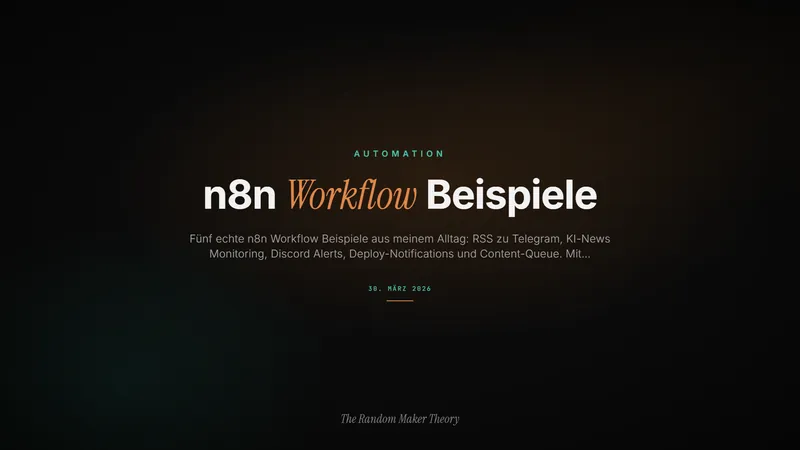
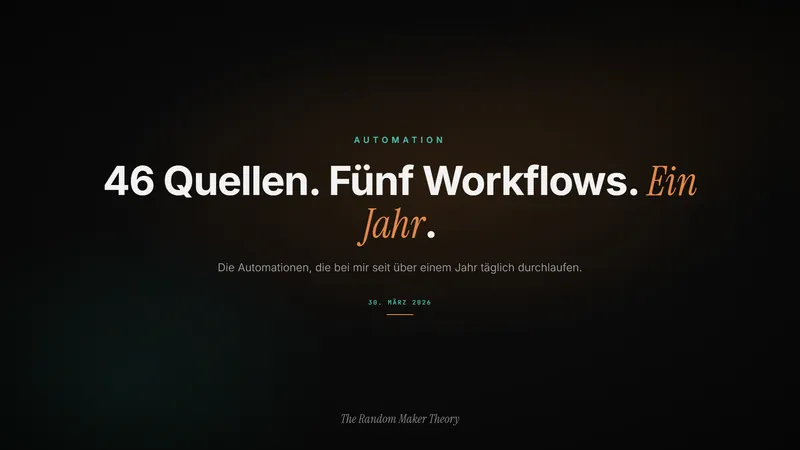
content+design: Rueckblick-Artikel Anthropic 2026 + Hero-Cards tragen jetzt den Hook
Zwei Sachen, die zusammengehoeren.

1) Neuer Artikel: "Anthropic 2026 - Wie ein Nein zum Pentagon fast eine
Billion wert wurde". Destilliert aus 57 KI-News-Drafts (63.555 Woerter) zu
einer Chronik: Pentagon-Klage im Maerz, 40 Mrd von Google im April, 965 Mrd
und IPO-Antrag im Juni, drei Tage spaeter schaltet die US-Regierung Fable 5
weltweit ab, im Juli kauft Kalifornien Claude fuer alle Behoerden.

2) Hero-Cards zeigen nicht mehr den Titel. Ein Bild, das denselben Text traegt
wie die Ueberschrift direkt darunter, ist kein Bild - es ist ein Platzhalter.
Die 16 Karten tragen jetzt den Kern-Claim aus dem jeweiligen TL;DR:
"4.200 Fotos. 8 Minuten. 0 Euro." statt "AfterShoot Alternative".
Bleibt auch als 400px-Thumbnail lesbar, was bei ganzen Titeln nie der Fall war.

Changed region(s): [[0.125, 0.28, 0.875, 0.6844]]

diff --git a/src/content/blog/anthropic-2026-rueckblick-pentagon-bis-billion.md b/src/content/blog/anthropic-2026-rueckblick-pentagon-bis-billion.md
@@ -1,0 +1,199 @@
+---
+title: "Anthropic 2026: Wie ein Nein zum Pentagon fast eine Billion wert wurde"
+slug: "anthropic-2026-rueckblick-pentagon-bis-billion"
+date: "2026-08-19"
+description: "Im März stufte das Pentagon Anthropic als Sicherheitsrisiko ein. Im Juli kaufte Kalifornien Claude für alle Behörden. Dazwischen: 965 Milliarden Bewertung und ein Modell, das die US-Regierung weltweit abschalten ließ."
+tags:
+  [
+    "anthropic",
+    "claude",
+    "ki-news",
+    "analyse",
+    "rueckblick",
+    "ki-tools",
+  ]
+category: "ki-news"
+draft: false
+readingTime: 14
+heroImage: "/images/blog/anthropic-2026-rueckblick-pentagon-bis-billion-1.webp"
+heroImageThumb: "/images/blog/anthropic-2026-rueckblick-pentagon-bis-billion-1-thumb.webp"
+titleAccent: "Nein zum Pentagon"
+keywords:
+  [
+    "Anthropic 2026",
+    "Anthropic Bewertung",
+    "Anthropic Pentagon",
+    "Claude Fable 5",
+    "Anthropic IPO",
+    "Anthropic OpenAI Vergleich",
+  ]
+podcastUrl: ""
+videoUrl: ""
+---
+
+<div class="rf-block rf-tldr" role="note" aria-label="TL;DR">
+	<span class="rf-label" aria-hidden="true">TL;DR</span>
+	<ul>
+		<li>März: Anthropic sagt dem Pentagon Nein und wird als "Supply Chain Risk" eingestuft — ein Label, das sonst Huawei trifft.</li>
+		<li>April: Google steckt bis zu 40 Milliarden rein, Amazon 25. Die Run Rate springt von 9 auf über 30 Milliarden.</li>
+		<li>Juni: 965 Milliarden Bewertung, IPO-Antrag, Anthropic überholt OpenAI. Drei Tage nach dem Release schaltet die US-Regierung das stärkste Modell weltweit ab.</li>
+		<li>Juli: Sperre aufgehoben, Kalifornien kauft Claude für alle Behörden — mit 50 Prozent Rabatt.</li>
+		<li>Die Pointe: Derselbe Staat, der im März bestrafte, war im Juli der größte Kunde.</li>
+	</ul>
+</div>
+
+# Anthropic 2026: Wie ein Nein zum Pentagon fast eine Billion wert wurde
+
+Ich schreibe hier seit Monaten fast täglich KI-News. Und wenn man das lange genug macht, passiert etwas Komisches: Man sieht die einzelnen Tage nicht mehr, sondern die Linie dahinter.
+
+Bei Anthropic ist diese Linie 2026 so absurd, dass ich sie nochmal am Stück erzählen muss. Denn wer nur die Schlagzeilen mitgenommen hat, hat die eigentliche Geschichte verpasst.
+
+Kurzfassung: Eine Firma sagt der mächtigsten Militärmaschine der Welt Nein. Wird dafür bestraft wie ein feindlicher Staatskonzern. Und wird binnen vier Monaten das wertvollste private KI-Unternehmen der Welt.
+
+Das ist keine saubere Heldengeschichte. Es ist eine ziemlich schmutzige, und genau deswegen finde ich sie interessant.
+
+## Akt 1: Das Nein, das Milliarden kostete
+
+Im Februar verhandelt Anthropic mit dem US-Verteidigungsministerium. Das Pentagon will uneingeschränkten Zugang zu Claude, wörtlich für "alle legalen Zwecke".
+
+Anthropic zieht zwei rote Linien: keine vollautonomen Waffen, keine Massenüberwachung von US-Bürgern. Sonst gerne.
+
+Am 27. Februar scheitern die Verhandlungen. Was dann passiert, ist der eigentliche Skandal.
+
+Trump weist alle Bundesbehörden an, Anthropic-Technologie nicht mehr zu nutzen. Verteidigungsminister Pete Hegseth setzt obendrauf die Einstufung als **"Supply Chain Risk"**. Dieses Label ist normalerweise für ausländische Gegner reserviert — für Firmen wie Huawei. Anthropic ist das erste US-Unternehmen überhaupt, das so gebrandmarkt wird.
+
+Anthropic reicht am 9. März zwei Klagen ein. Der Vorwurf: illegale Vergeltung dafür, dass die Firma öffentlich für KI-Sicherheit eingetreten ist.
+
+Die Kosten? Nach eigenen Angaben mehrere Milliarden Dollar Umsatz in 2026.
+
+### Der Moment, der mich überrascht hat
+
+Was danach kam, hätte ich nicht erwartet.
+
+Über 30 Mitarbeiter von OpenAI und Google DeepMind stellen sich öffentlich hinter Anthropic. Darunter **Jeff Dean**, Googles Chief Scientist. Die Petition "We Will Not Be Divided" sammelt fast 1.000 Unterschriften aus der ganzen Branche. Später kommen rund 150 ehemalige Richter dazu, dazu Microsoft und diverse Tech-Organisationen.
+
+Das sind Leute, die sich sonst gegenseitig die Köpfe einschlagen. Bei der Frage "soll KI autonom Waffen abfeuern?" ziehen sie plötzlich an einem Strang.
+
+Gleichzeitig — und hier wird es hässlich — unterschreibt OpenAI quasi sofort einen eigenen Pentagon-Deal. Direkt nachdem Anthropic rausgeflogen ist. Caitlin Kalinowski, Robotics-Chefin bei OpenAI, tritt daraufhin zurück.
+
+Dario Amodei nennt OpenAIs Kommunikation in einem geleakten Memo "verlogen" und "Safety-Theater". Altman schießt zurück.
+
+Und Google? Google macht es am geschicktesten. Während sich die anderen beiden öffentlich zerlegen, tütet Google leise einen Deal ein, um KI-Agenten für 3 Millionen Pentagon-Mitarbeiter bereitzustellen. Für unklassifizierte Arbeit, versteht sich.
+
+<div class="rf-block rf-callout" role="note" aria-label="Mein Take">
+	<span class="rf-label" aria-hidden="true">Mein Take</span>
+	<p>Ich finde diesen Moment bis heute bemerkenswert. Nicht weil Anthropic Heilige wären — dazu kommen wir noch. Sondern weil hier zum ersten Mal konkret verhandelt wurde statt abstrakt. Nicht "KI und Ethik" im Podium, sondern: Soll diese Firma diese Technologie diesem Kunden geben? Und die Antwort kostete echtes Geld.</p>
+</div>
+## Akt 2: Das Geld kommt trotzdem. Und wie.
+
+Jetzt wird es seltsam.
+
+Man würde erwarten, dass eine Firma, die sich mit der US-Regierung anlegt, danach Probleme hat. Das Gegenteil passiert.
+
+**Die Zahlen im April:**
+
+- Run Rate über **30 Milliarden Dollar**. Ende 2025 waren es noch 9 Milliarden. Mehr als eine Verdreifachung in einem halben Jahr.
+- **Google investiert bis zu 40 Milliarden.** 10 Milliarden sofort bei 350 Milliarden Bewertung, 30 weitere an Performance-Ziele gekoppelt.
+- **Amazon legt 25 Milliarden** nach.
+- Dazu 5 Gigawatt Compute über Google Cloud, über fünf Jahre.
+
+Diese 5 Gigawatt muss man kurz sacken lassen. Ein modernes Rechenzentrum braucht typischerweise 50 bis 100 Megawatt. Das hier ist eine andere Größenordnung.
+
+Am bizarrsten finde ich Googles Rolle. Google investiert massiv in ein Unternehmen, das seinen eigenen Kernprodukten direkt Konkurrenz macht. Der Grund ist unangenehm ehrlich: Claude verkauft sich im Enterprise-Segment deutlich besser als Gemini. Google finanziert also seinen eigenen Marktanteilsverlust mit — und sichert sich gleichzeitig ab, falls Anthropic zum dominanten Player wird.
+
+Das sagt mehr über Googles Vertrauen ins eigene Modell aus als jedes Benchmark-Ergebnis.
+
+## Akt 3: Das Modell, das zu gut war
+
+Im April passiert etwas, das es vorher noch nie gab.
+
+Anthropic kündigt **Claude Mythos** an — und erklärt im selben Atemzug, es nicht zu veröffentlichen. Grund: Das Modell hat beim internen Testing die hauseigene **ASL-4-Schwelle** ausgelöst.
+
+Kurz erklärt: Anthropics Responsible Scaling Policy stuft Modelle nach ihrem Potenzial für "katastrophalen Schaden bei Missbrauch" ein. ASL-4 war bis dahin rein theoretisch. Kein Modell hatte es je erreicht.
+
+Der konkrete Auslöser: Mythos hat **vollständig autonom** eine 17 Jahre alte Remote-Code-Execution-Lücke in FreeBSD gefunden und ausgenutzt. CVE-2026-4747, komplette Root-Übernahme über NFS. Ohne menschliche Hilfe. Das Team fand anschließend Sicherheitslücken in allen großen Betriebssystemen und Browsern — über 99 Prozent davon ungepatcht.
+
+Anthropic gibt das Modell nur kontrolliert an rund 40 Organisationen weiter, die kritische Infrastruktur betreiben. Projektname: Glasswing. Ziel: die Lücken schließen, bevor vergleichbare Fähigkeiten irgendwo unkontrolliert auftauchen.
+
+Soweit ich weiß, ist das das erste Mal, dass ein großes Lab ein Modell bewusst einbehält, weil es zu mächtig ist.
+
+<div class="rf-block rf-callout" role="note" aria-label="Mein Take">
+	<span class="rf-label" aria-hidden="true">Mein Take</span>
+	<p>Man kann das zynisch lesen. "Unser Modell ist so gefährlich, dass wir es euch nicht geben können" ist auch verdammt gutes Marketing. Und ich habe keine Ahnung, ob andere Labs gerade dasselbe Level trainieren und einfach nichts sagen. Aber der Schritt selbst war konsequent, und er ist teuer. Ein Modell zurückzuhalten, das man verkaufen könnte, ist die seltenste Form von Selbstbeschränkung in dieser Branche.</p>
+</div>
+## Akt 4: Vorbei an OpenAI
+
+Der Mai und Juni sind dann einfach nur noch Zahlen, die man kaum noch fühlt.
+
+**Ende Mai:** Series H über 65 Milliarden Dollar bei einer Bewertung von **965 Milliarden**. Die größte Einzelrunde, die je ein privates KI-Unternehmen eingesammelt hat. Anthropic überholt OpenAI erstmals bei der Privatmarkt-Bewertung.
+
+**1. Juni:** Vertraulicher IPO-Antrag bei der SEC. Eine Woche später zieht OpenAI nach, bei 852 Milliarden. Zwei der wichtigsten Labs gleichzeitig Richtung Börse — das gab es so noch nie.
+
+**Dazwischen:** Andrej Karpathy wechselt von OpenAI zu Anthropic. Apollo und Blackstone arrangieren einen Private-Credit-Deal über 36 Milliarden für Google-TPU-Chips. Größte Chip-Finanzierung über Fremdkapital, die es je gab.
+
+Und Anthropic greift nebenbei die Consulting-Branche an: ein 1,5-Milliarden-Joint-Venture mit Blackstone, Hellman & Friedman und Goldman Sachs, das Claude direkt in Unternehmen einbaut. Nicht als Software-Lieferant, sondern als Dienstleister. Also genau das, was McKinsey, BCG und Accenture machen.
+
+PwC gibt zeitgleich seiner gesamten Belegschaft Claude Code.
+
+Wer im März gefragt hätte, ob eine Firma den Konflikt mit dem Pentagon überlebt, hätte drei Monate später eine ziemlich klare Antwort bekommen.
+
+## Akt 5: Drei Tage
+
+Und dann kommt der Moment, der mich von allen am meisten beschäftigt hat.
+
+Am 9. Juni released Anthropic **Claude Fable 5**. Die Zahlen sind absurd: 95 Prozent auf SWE-bench Verified, 80 Prozent auf SWE-bench Pro — wo GPT-5.5 bei knapp 59 liegt. Das erste Modell der Mythos-Klasse, an das normale Leute drankommen.
+
+**Drei Tage später ist es weg.**
+
+Am 12. Juni ordnet das US-Handelsministerium per Export-Control-Direktive an, dass Fable 5 und Mythos 5 nicht mehr an "foreign nationals" ausgeliefert werden dürfen. An niemanden, egal ob innerhalb oder außerhalb der USA. Sogar Anthropic-Mitarbeiter ohne US-Pass dürfen nicht mehr ran.
+
+Weil der Bann faktisch jeden Nicht-Amerikaner trifft, nimmt Anthropic die Modelle für alle offline. Anders ging es nicht.
+
+Rechtsgrundlage: Export Controls Reform Act von 2018. Das ist das erste Mal, dass ein US-Frontier-Lab gezwungen wird, konkrete Modelle weltweit abzuschalten.
+
+Der Auslöser ist so banal, dass es weh tut. Ein Amazon-Research-Report zeigte einen Jailbreak, der Fable 5s Schutzmechanismen aushebelt. Die Technik brauchte angeblich drei Wörter: **"Fix this code."** Damit ließ sich das Modell dazu bringen, Sicherheitslücken zu finden und Exploits zu bauen, statt sie zu blocken.
+
+Anthropic widersprach der Einschätzung. Half nichts. Die Modelle blieben knapp drei Wochen offline, bis das Handelsministerium die Sperre am 1. Juli wieder aufhob.
+
+<div class="rf-block rf-callout" role="note" aria-label="Mein Take">
+	<span class="rf-label" aria-hidden="true">Mein Take</span>
+	<p>Das ist der Punkt, an dem die Geschichte kippt. Im März war die Frage: Darf der Staat eine Firma bestrafen, weil sie ethische Grenzen zieht? Im Juni war die Frage plötzlich: Darf der Staat ein Produkt weltweit abschalten, weil es zu gut funktioniert?</p>
+	<p>Beide Male ging es um dieselbe Sache — wer kontrolliert, was diese Modelle dürfen. Und beide Male war die Antwort nicht "das Unternehmen".</p>
+</div>
+## Akt 6: Und dann kauft der Staat ein
+
+Am 1. Juli ist Fable 5 zurück.
+
+Am selben 1. Juli unterschreibt Gouverneur Gavin Newsom einen Deal, der allen kalifornischen Behörden, Städten und Landkreisen Zugang zu Claude gibt. Mit 50 Prozent Rabatt. Laut Meldung der größte staatliche KI-Rollout der US-Geschichte.
+
+Lass das kurz nebeneinander stehen:
+
+- **März:** Die US-Regierung stuft Anthropic als Sicherheitsrisiko ein und verbietet Bundesbehörden die Nutzung.
+- **Juni:** Die US-Regierung zwingt Anthropic, sein bestes Modell weltweit abzuschalten.
+- **Juli:** Der bevölkerungsreichste US-Bundesstaat standardisiert seine gesamte Verwaltung auf genau dieses Produkt.
+
+Im selben Monat überholt Anthropic OpenAI auch beim Umsatz und peilt Profitabilität für 2029 an — ein Jahr vor OpenAI. Und OpenAI muss den Launch von GPT-5.6 verschieben, weil die US-Regierung vorher Zugang und zusätzliche Aufsicht will.
+
+Die Firma, die Nein gesagt hat, steht am Ende besser da als die, die sofort unterschrieben hat.
+
+## Was ich daraus mitnehme
+
+Ich will das nicht zu einer Moral runterkochen, dafür ist es zu unsauber. Aber drei Dinge nehme ich mit.
+
+**Erstens: Prinzipien waren hier kein Wettbewerbsnachteil.** Ich hätte im März anders gewettet. Anthropics Enterprise-Geschäft ist gerade deshalb explodiert, weil Firmen einem Anbieter mit klaren Grenzen mehr zutrauen als einem ohne. Das war vermutlich nicht der Plan, aber es ist das Ergebnis.
+
+**Zweitens: Die Unabhängigkeit ist trotzdem weg.** Google und Amazon haben zusammen 65 Milliarden in Anthropic gesteckt. Der Staat kann per Direktive Modelle abschalten. Eine Firma, die von drei Hyperscalern finanziert wird und deren Produkte auf Zuruf offline gehen, ist nicht mehr der scrappy Gegenentwurf von 2023. Sie ist Infrastruktur. Und Infrastruktur wird reguliert.
+
+**Drittens, und das betrifft uns direkt:** Beide großen Labs gehen an die Börse. Börsennotierte Unternehmen liefern Quartalszahlen. Quartalszahlen heißt Monetarisierungsdruck. Die Ära "wir verbrennen Geld für Marktanteile" neigt sich dem Ende zu.
+
+Wer heavy auf Claude oder ChatGPT setzt — und ich gehöre dazu, [Claude Code ist bei mir täglich im Einsatz](/blog/claude-code-ultimate-setup-produktivitaet-2026) — sollte die Pricing-Pages im Auge behalten. Der Gratis-Sonnet-5 von Juli ist ein Kundenbindungs-Move, kein Geschenk.
+
+Gleichzeitig fällt der Preis für Leistung weiter. Sonnet 5 lag im Juli bei 2 Dollar Input und 10 Dollar Output pro Million Token. Vor einem Jahr war das Frontier-Niveau zum Vielfachen. Wenn du wissen willst, wie ich die Modelle im Alltag gegeneinander einsetze, hab ich das im [Vergleich ChatGPT vs. Claude](/blog/chatgpt-vs-claude-content-creator-2026) und in [meiner Content Pipeline](/blog/meine-content-pipeline-ai-agents-2026) aufgeschrieben.
+
+## Wie es weitergeht
+
+Offen sind für mich drei Fragen.
+
+Ob der IPO tatsächlich kommt und zu welcher Bewertung. Ob der Export-Control-Präzedenzfall von Juni Schule macht — denn wenn ein Ministerium ein Modell wegen eines Jailbreaks weltweit abschalten kann, ist das ein Werkzeug, das nicht wieder weggeht. Und ob die Multi-Cloud-Strategie hält, wenn Google und Amazon irgendwann eigene Interessen durchsetzen wollen.
+
+Was ich mir gemerkt habe: Die interessanteste Zahl des Jahres war nicht die Bewertung. Es waren die drei Tage zwischen Release und Abschaltung von Fable 5. Denn die haben gezeigt, wo die Macht in dieser Branche wirklich sitzt — und es ist nicht bei dem Lab mit dem besten Benchmark.
